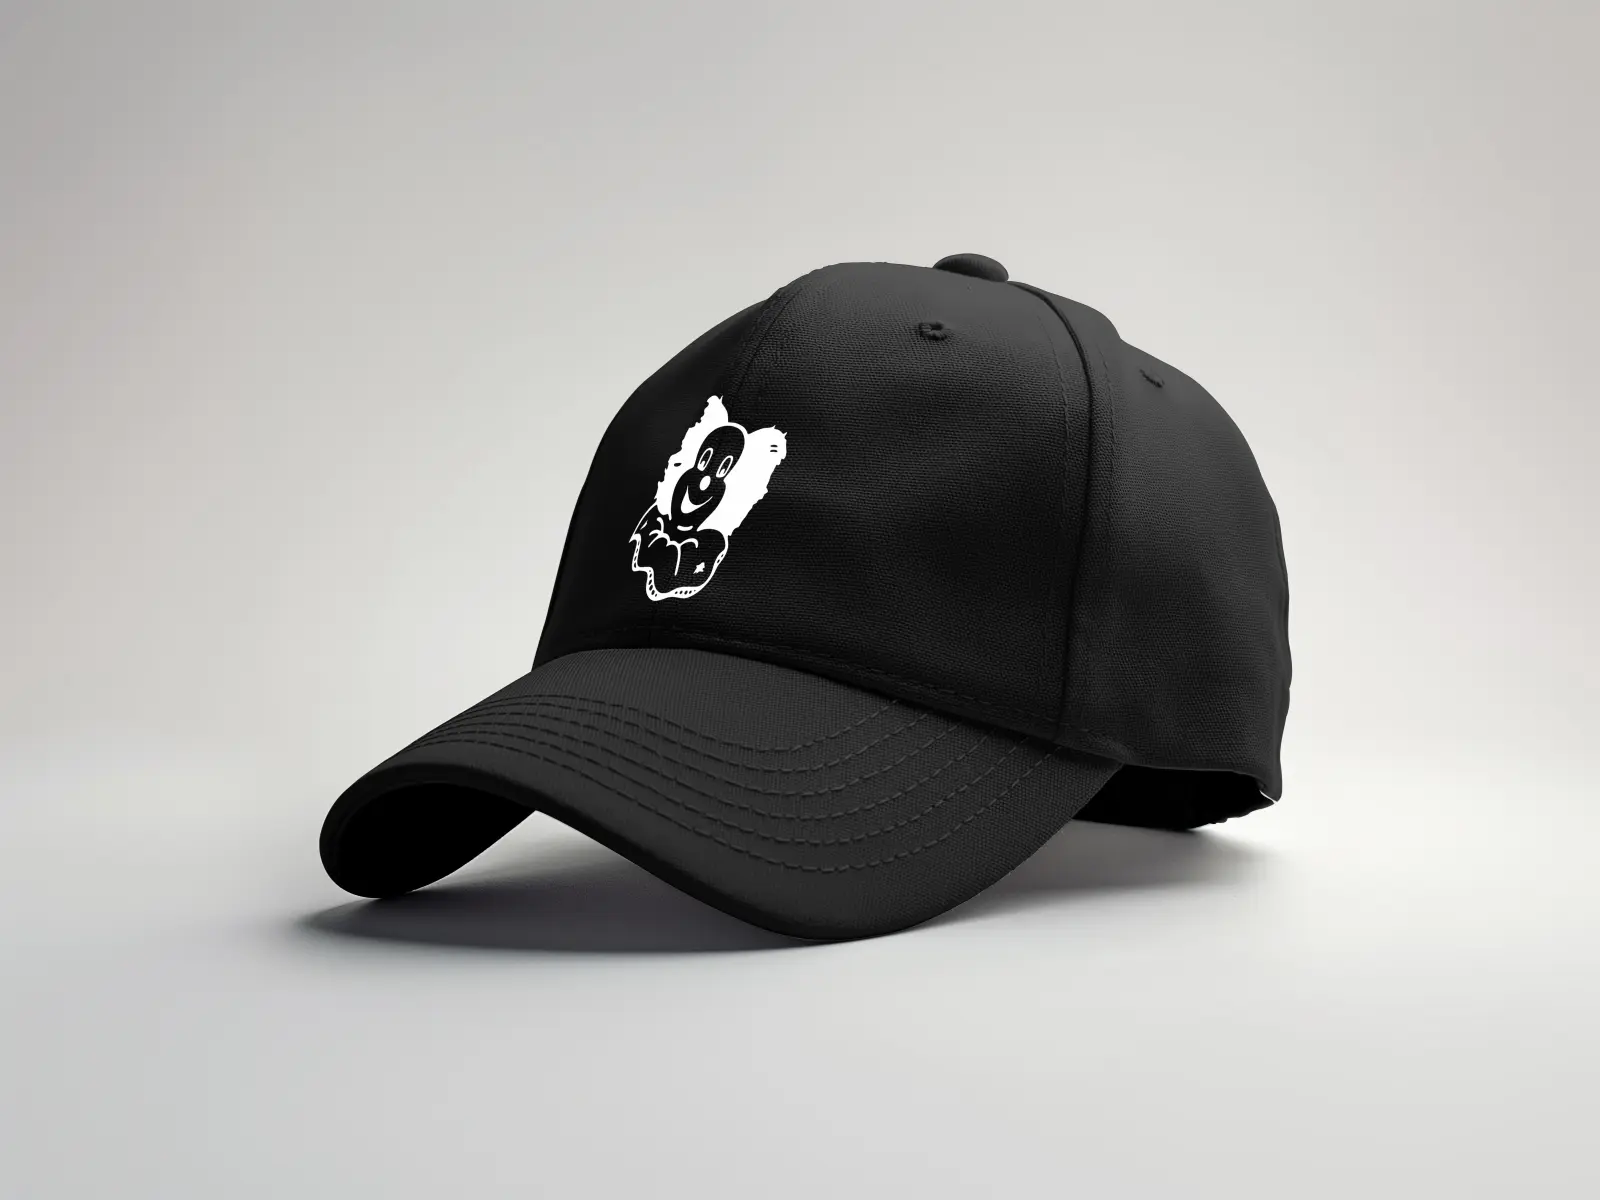
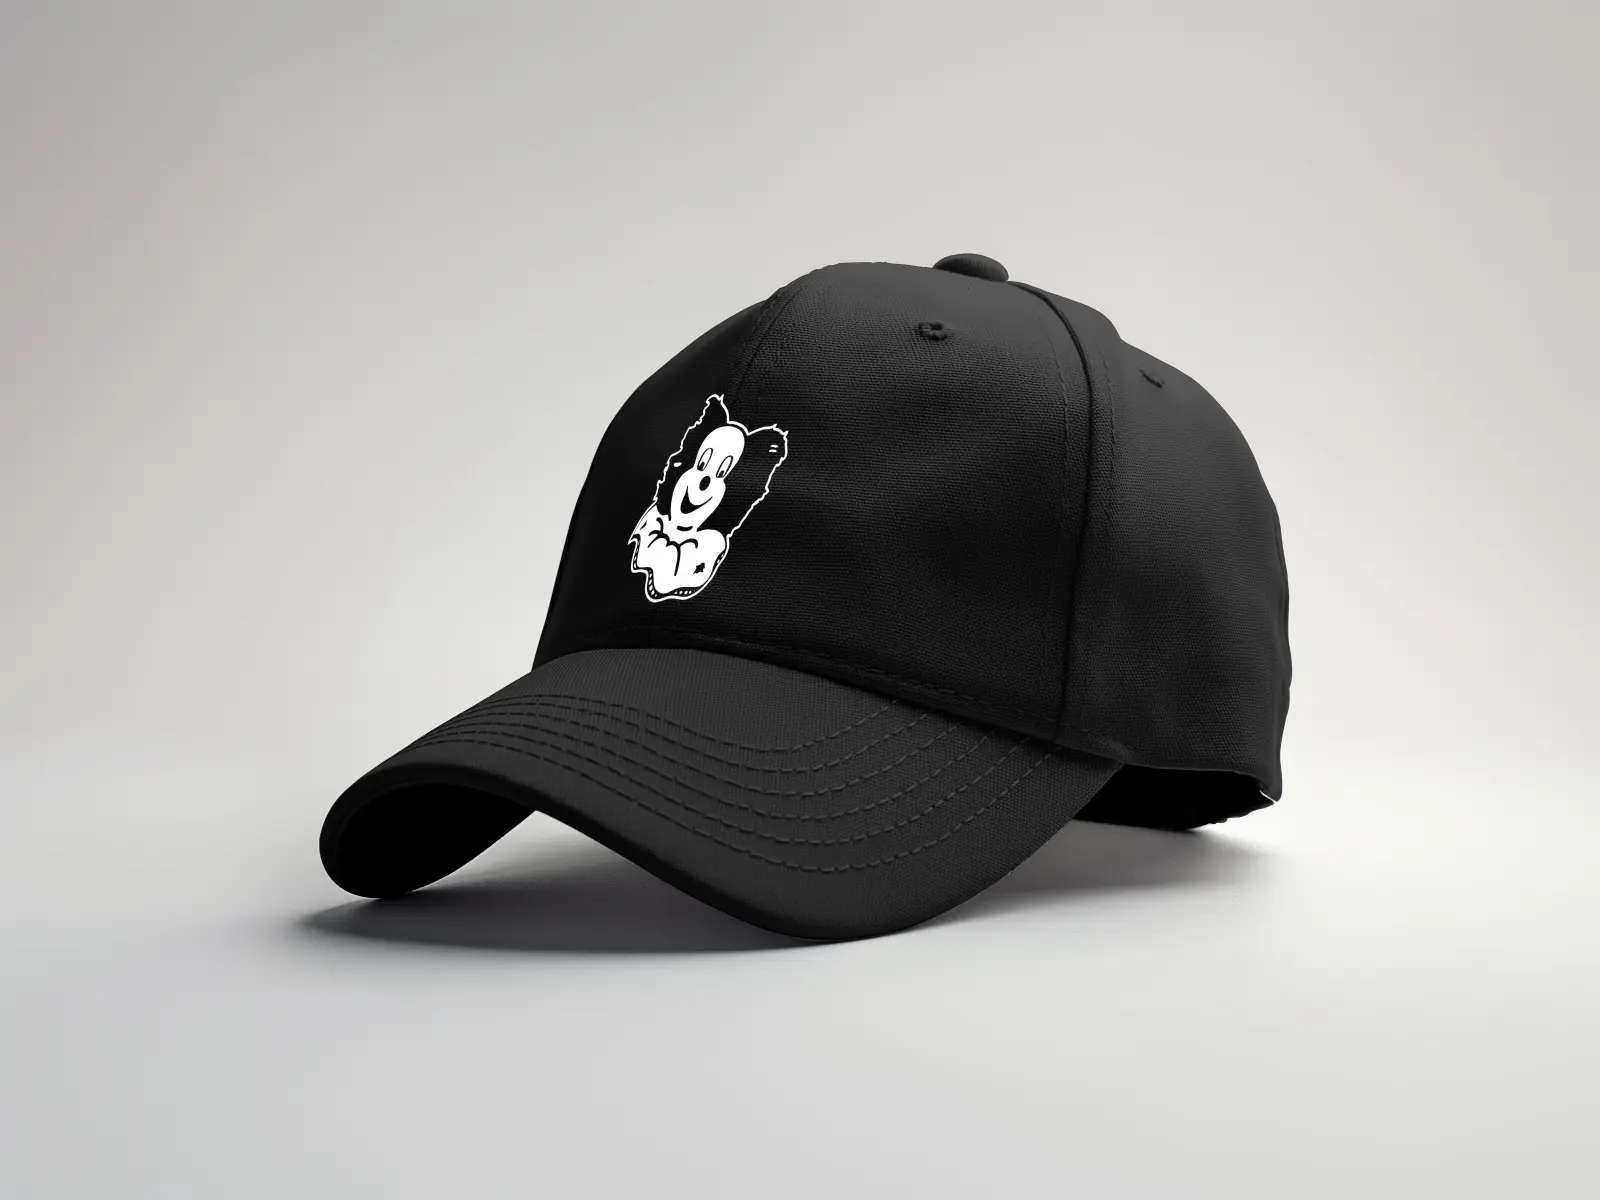
ACtualizacion de la gorra Payaso

Changed region(s): [[0.375, 0.3083, 0.5, 0.5242]]

diff --git a/productos/gorras/gorraPayaso.html b/productos/gorras/gorraPayaso.html
@@ -59,7 +59,7 @@
             <div class="row">
                 <div class="col-md-6 text-center">
                     
-                    <img id="imgGorra" src="../../imagenes/gorras/gorraPayaso/gorraPayaso_blanco.webp" class="d-block w-100 fade-img ampliable" alt="Imagen de la gorra" style="border-radius: 3%;">
+                    <img id="imgGorra" src="../../imagenes/gorras/gorraPayaso/gorraPayaso_negro.webp" class="d-block w-100 fade-img ampliable" alt="Imagen de la gorra" style="border-radius: 3%;">
                     <h5>Descripción</h5>
                     <p>Gorra de la colección Lali - Payaso, ideal para protegerte del sol con estilo. Material de alta calidad y ajuste cómodo.</p>
                     <div class="color-disclaimer">
@@ -82,10 +82,11 @@
                             <label class="form-label">Color de la gorra</label>
                             <div class="color-selector"
                                 id="colorGorraSelector">
-                                <div class="color-option color-blanco selected" data-color="Blanco" data-value="blanco"></div>
+                                <div class="color-option color-negro selected" data-color="Negro" data-value="negro"></div>
+                            <div class="color-option color-blanco " data-color="Blanco" data-value="blanco"></div>
                             </div>
                             <input type="hidden" id="colorGorra"
-                                class="color-input-hidden" value="blanco">
+                                class="color-input-hidden" value="negro">
                         </div>
                         
 

diff --git a/script/funciones/agregarCarrito.js b/script/funciones/agregarCarrito.js
@@ -105,9 +105,12 @@ document.addEventListener("DOMContentLoaded", () => {
     const esRemeraLali = nombreProducto.toLowerCase().includes('remera lali');
     
     // Especial para gorra Lali: tiene color de gorra + color de estampa
-    const esGorraLali = nombreProducto.toLowerCase().includes('gorra lali');
+    const esGorraLali = nombreProducto.toLowerCase().includes('gorra lali') && 
+                        !nombreProducto.toLowerCase().includes('payaso') && 
+                        !nombreProducto.toLowerCase().includes('corona') && 
+                        !nombreProducto.toLowerCase().includes('smile');
     
-    // Gorras simples: solo color de gorra (Smile, Payaso, Corona)
+    // Gorras simples: solo color de gorra (Smile, Payaso, Corona, etc.)
     const esGorraSimple = nombreProducto.toLowerCase().includes('gorra') && !esGorraLali;
     
     // Para productos con solo modelo, agregar el modelo al nombre (si existe)

diff --git a/script/gorras/gorraPayaso.js b/script/gorras/gorraPayaso.js
@@ -36,6 +36,7 @@ function actualizarImagen() {
 }
 
 const opcionesPorColorGorra = {
+  "negro": [],
   "blanco": []
 };
 
